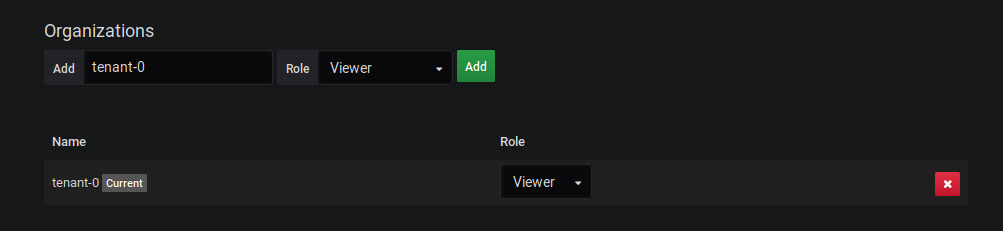
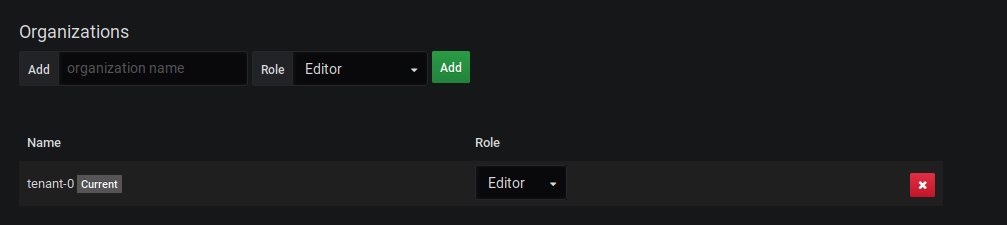
FIX: Modification users

diff --git a/README.md b/README.md
@@ -186,11 +186,11 @@ Create a new user *(could be different of the grafana loki proxy)*:
 
 ![Grafana Create User](assets/grafana-create-user.png)
 
-Modify the created user to delete from the main organization adding to the created organization.
+Modify the created user to delete from the main organization adding to the created organization as **editor**.
 
 ![Grafana Modify User](assets/grafana-modify-user.png)
 
-Then move to the recently created organization as **editor**:
+Then move to the recently created organization:
 
 ![Grafana Switch User](assets/grafana-switch-org.png)
 
